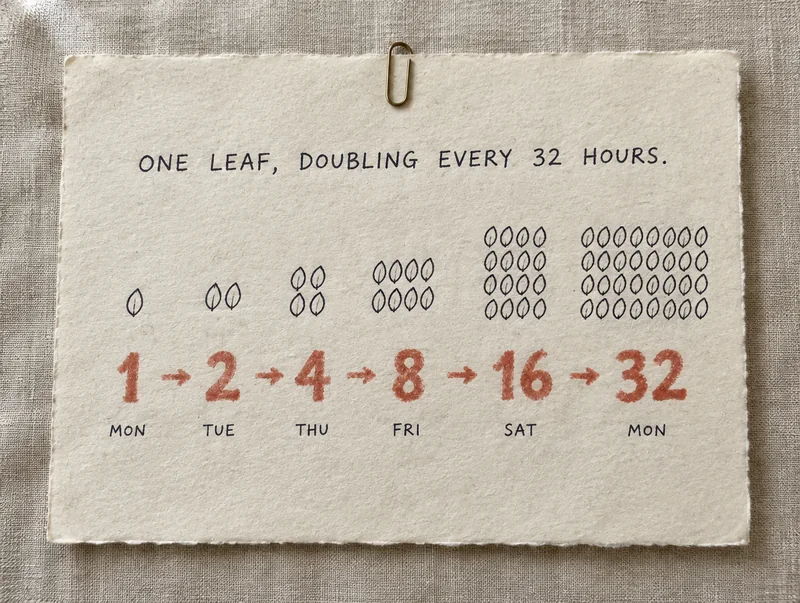
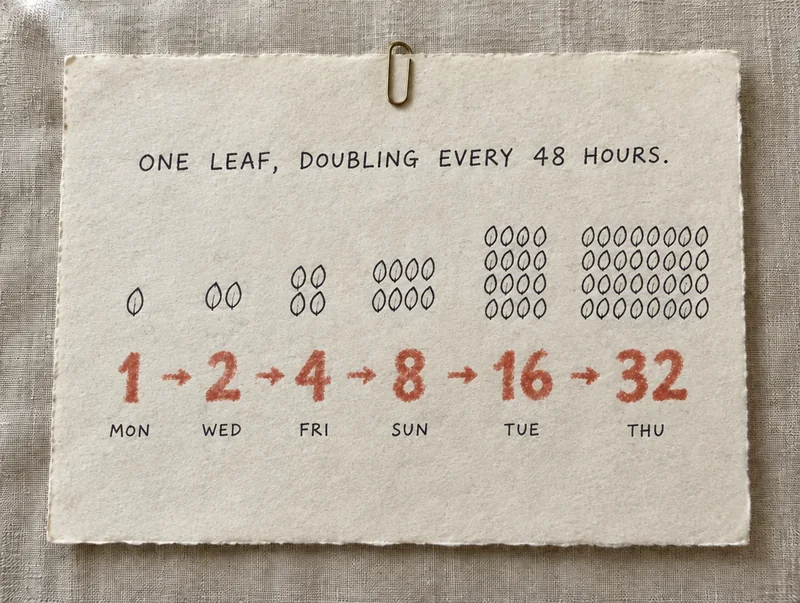
journal: leaf doubling drawing and wording use 48 hours

diff --git a/content/imported-html/mujo_journal_what-is-lemna-protein.html b/content/imported-html/mujo_journal_what-is-lemna-protein.html
@@ -472,9 +472,9 @@ footer.mujo-foot { background: var(--sage); color: rgba(255,255,255,0.5); paddin
   <p>That plant exists. It's called <strong>Lemna</strong>, and it floats.</p>
   <p>Each Lemna plant is one small green leaf, a few millimetres wide, sitting on the surface of still water with a little root dangling underneath.<a class="cite" href="#src-16">[16]</a> That's the whole plant. It belongs to a family of 36 species<a class="cite" href="#src-4">[4]</a> that you may know by its less glamorous name, <strong>duckweed</strong>. Botanists describe the family as "some of the smallest and fastest growing angiosperms known on Earth."<a class="cite" href="#src-5">[5]</a> (Angiosperm means flowering plant. Yes, they flower. Bring a magnifying glass.)</p>
   <figure class="jfig photo tall"><img src="/images/responsive/ingredients/lemna-macro-editorial-1x1-800.webp" srcset="/images/responsive/ingredients/lemna-macro-editorial-1x1-800.webp 800w, /images/responsive/ingredients/lemna-macro-editorial-1x1-1200.webp 1200w" sizes="(min-width: 768px) 616px, calc(100vw - 40px)" width="800" height="800" alt="A close view of Lemna leaves floating in a shallow glass dish, each one a small green oval." loading="lazy"><figcaption>Lemna leaf, close up. Each oval is a whole plant.</figcaption></figure>
-  <p>About that speed. In 2015, researchers grew 39 different strains side by side and timed how long each took to double. The fastest did it in 32 hours.<a class="cite" href="#src-6">[6]</a></p>
-  <p>Doubling is one of those things our brains are bad at, so let's do the maths. Say you start with enough to cover a postage stamp on Monday morning. By the next Monday you've got more than thirty stamps' worth. A field of peas spends that week getting very slightly taller.</p>
-  <figure class="jfig sketch"><a href="/images/responsive/journal/protein-series/drawings/p1-doubling-full.webp" target="_blank" rel="noopener"><img src="/images/responsive/journal/protein-series/drawings/p1-doubling-800.webp" srcset="/images/responsive/journal/protein-series/drawings/p1-doubling-800.webp 800w, /images/responsive/journal/protein-series/drawings/p1-doubling-full.webp 1168w" sizes="(min-width: 768px) 616px, calc(100vw - 40px)" width="800" height="603" alt="One small Lemna leaf on Monday, then two, four, eight, sixteen and thirty-two, doubling every 32 hours through the week." loading="lazy"></a><figcaption>One leaf on Monday morning. Doubling every 32 hours, that's 32 by early the following Monday.</figcaption></figure>
+  <p>About that speed. In 2015, researchers grew 39 different strains side by side and timed how long each took to double. The fastest did it in 32 hours.<a class="cite" href="#src-6">[6]</a> To stay on the careful side, let's call it two days.</p>
+  <p>Doubling is one of those things our brains are bad at, so let's do the maths. Say you start with enough to cover a postage stamp on Monday morning. Ten days later, on the Thursday of the following week, you've got 32 stamps' worth. A field of peas spends those ten days getting very slightly taller.</p>
+  <figure class="jfig sketch"><a href="/images/responsive/journal/protein-series/drawings/p1-doubling-full.webp" target="_blank" rel="noopener"><img src="/images/responsive/journal/protein-series/drawings/p1-doubling-800.webp" srcset="/images/responsive/journal/protein-series/drawings/p1-doubling-800.webp 800w, /images/responsive/journal/protein-series/drawings/p1-doubling-full.webp 1168w" sizes="(min-width: 768px) 616px, calc(100vw - 40px)" width="800" height="603" alt="One small Lemna leaf on Monday, then two, four, eight, sixteen and thirty-two, doubling every 48 hours over ten days." loading="lazy"></a><figcaption>One leaf on Monday morning. Doubling every 48 hours, that's 32 by the Thursday of the following week.</figcaption></figure>
   <p>None of this is new to everyone. In northern Thailand, Laos and Myanmar, a close cousin of Lemna has been eaten as a vegetable for generations. It's called khai-nam, "eggs of the water," and two researchers wrote it up in <em>Nature</em> back in 1971 as a promising cheap source of protein.<a class="cite" href="#src-7">[7]</a> It has also caught the eye of space researchers, who need crops that grow fast in very little room.<a class="cite" href="#src-8">[8]</a></p>
   <p>The dried plants in this family are 20% to 35% protein.<a class="cite" href="#src-9">[9]</a> That's the leaf protein we've been talking about, in a plant that's finally practical to get it out of.</p>
   <h2>Okay, but is it good protein?</h2>
